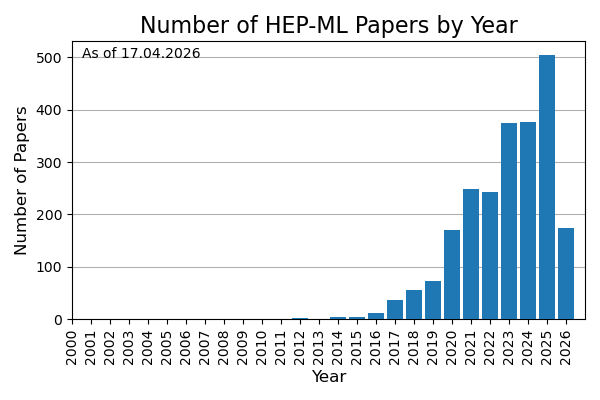
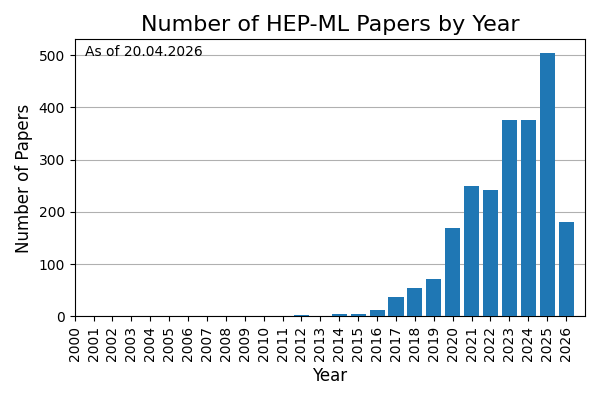
Weekly update CW 16

diff --git a/HEPML.tex b/HEPML.tex
@@ -95,7 +95,7 @@ This review was built with the help of the HEP-ML community, the INSPIRE REST AP
 			\\\textit{Neutrino detectors are very large in order to have a sizable rate of neutrino detection.  The entire neutrino interaction can be characterized to distinguish different neutrino flavors.}
 			\item \textbf{Direct Dark Matter Detectors}~\cite{Amaro:2025ssv,Cerdeno:2024uqt,Ghrear:2024rku,XENONCollaboration:2023dar,Biassoni:2023lih,Li:2022tvg,Liang:2021nsz,Herrero-Garcia:2021goa,Coarasa:2021fpv,McDonald:2021hus,Golovatiuk:2021lqn,Khosa:2019qgp,Akerib:2020aws,Ilyasov_2020}
 			\\\textit{Dark matter detectors are similar to neutrino detectors, but aim to achieve `zero' background.}
-			\item \textbf{Cosmology, Astro Particle, and Cosmic Ray physics}~\cite{Santelj:2026dma,Lai:2026hhg,Mikuni:2025ocp,Romano:2025bxp,TelescopeArray:2025lcs,Li:2025djo,Choudhury:2025hqg,PierreAuger:2025cic,Hallin:2025wyc,Macias:2025crt,IceCube:2025swy,Heneka:2025fpe,Erdmann:2025xpm,Takahashi:2024bxx,Heisig:2024jkk,Ahn:2024lkh,Hatefi:2024asc,Yoon:2024pbz,Riehn:2024prp,Kalaczynski:2024wxa,Thakur:2024mxs,Guo:2023mhf,Hatefi:2023gpj,Krastev:2023fnh,Cai:2023gol,Carvalho:2023ele,Zhou:2023cfs,Kim:2023wuk,Goriely:2022upe,Nguyen:2022ldb,Zhang:2022djp,Abel:2022nje,Sun:2022djj,Glauch:2022xth,Montel:2022fhv,De:2022sde,Chen:2019avc,Bister:2021arb,Mishra-Sharma:2021oxe,Mishra-Sharma:2021nhh,Sabiu:2021aea,Kahlhoefer:2021sha,List:2021aer,Vago:2021grx,Aizpuru:2021vhd,Ikeda:2021sxm,Shih:2021kbt,1853992,Arjona:2021hmg,Han:2021kjx,Droz:2021wnh,huang2021convolutionalneuralnetwork,Conceicao:2021xgn,gonzalez2021tackling,Balazs:2021uhg,Aab:2021rcn,Verma:2020gnq,Tsai:2020vcx,Brehmer:2019jyt,Ostdiek:2020cqz}
+			\item \textbf{Cosmology, Astro Particle, and Cosmic Ray physics}~\cite{Ahmed:2026agd,Santelj:2026dma,Lai:2026hhg,Mikuni:2025ocp,Romano:2025bxp,TelescopeArray:2025lcs,Li:2025djo,Choudhury:2025hqg,PierreAuger:2025cic,Hallin:2025wyc,Macias:2025crt,IceCube:2025swy,Heneka:2025fpe,Erdmann:2025xpm,Takahashi:2024bxx,Heisig:2024jkk,Ahn:2024lkh,Hatefi:2024asc,Yoon:2024pbz,Riehn:2024prp,Kalaczynski:2024wxa,Thakur:2024mxs,Guo:2023mhf,Hatefi:2023gpj,Krastev:2023fnh,Cai:2023gol,Carvalho:2023ele,Zhou:2023cfs,Kim:2023wuk,Goriely:2022upe,Nguyen:2022ldb,Zhang:2022djp,Abel:2022nje,Sun:2022djj,Glauch:2022xth,Montel:2022fhv,De:2022sde,Chen:2019avc,Bister:2021arb,Mishra-Sharma:2021oxe,Mishra-Sharma:2021nhh,Sabiu:2021aea,Kahlhoefer:2021sha,List:2021aer,Vago:2021grx,Aizpuru:2021vhd,Ikeda:2021sxm,Shih:2021kbt,1853992,Arjona:2021hmg,Han:2021kjx,Droz:2021wnh,huang2021convolutionalneuralnetwork,Conceicao:2021xgn,gonzalez2021tackling,Balazs:2021uhg,Aab:2021rcn,Verma:2020gnq,Tsai:2020vcx,Brehmer:2019jyt,Ostdiek:2020cqz}
 			\\\textit{Machine learning is often used in astrophysics and cosmology in different ways than terrestrial particle physics experiments due to a general divide between Bayesian and Frequentist statistics.  However, there are many similar tasks and a growing number of proposals designed for one domain that apply to the other.  See also https://github.com/georgestein/ml-in-cosmology.}
 			\item \textbf{Tracking}~\cite{Coccaro:2026jod,Renusch:2026tko,Argenton:2026zxr,Das:2026mff,Liyan:2026pbd,Reuter:2026pdv,CMS:2026znb,Dispoto:2025zyz,Coccaro:2025rfu,Govil:2025nvy,Parpillon:2025tlm,Blankestijn:2025hvg,Caron:2025yaa,Condren:2025czc,Miller:2025svo,Coradin:2025ees,VanStroud:2024fau,Caron:2024cyo,Guiang:2024qzk,Gavalian:2024icb,Huang:2024voo,Allaire:2023llb,Allaire:2023dfg,Mieskolainen:2023hkz,Akar:2023zhd,Knipfer:2023zrv,Bae:2023eec,Abidi:2022ogh,Sun:2022bxx,Akram:2022zmj,Bakina:2022mhs,Alonso-Monsalve:2022zlm,Wang:2022oer,Goncharov:2021wvd,Huth:2021zcm,Lavrik:2021zgt,Edmonds:2021lzd,Dezoort:2021kfk,Ju:2021ayy,Thais:2021qcb,Akar:2021gns,Biscarat:2021dlj,goto2021development,Amrouche:2021tlm,Fox:2020hfm,Siviero:2020tim,Choma:2020cry,Shlomi:2020ufi,Akar:2020jti,Ju:2020xty,Amrouche:2019wmx,Farrell:2018cjr,Farrell:DLPS2017}
 			\\\textit{Charged particle tracking is a challenging pattern recognition task.  This category is for various classification tasks associated with tracking, such as seed selection.}
@@ -148,9 +148,9 @@ This review was built with the help of the HEP-ML community, the INSPIRE REST AP
 		\\\textit{Regression methods can be used as surrogate models for functions that are too slow to evaluate.  One important class of functions are matrix elements, which form the core component of cross section calculations in quantum field theory.}
 		\item \textbf{Parameter estimation}~\cite{deNoyers:2025ije,Guo:2025zpk,Mir:2025wxg,Borsato:2025nng,Thakur:2025oyn,Tong:2025jnd,PierreAuger:2025cic,Dimitrova:2025mbl,Miller:2025svo,Abasov:2025ntj,Hammad:2025ewr,Vasilev:2025dff,Biro:2024tzv,Simkina:2023ztj,Dubey:2023pro,Yang:2023rbg,Schroder:2023akt,Goos:2023opq,Shi:2023xfz,AlHammal:2023svo,Qiu:2023ihi,Garg:2022tal,Meng:2022lmd,Castro:2022zpq,Craven:2021ems,Alda:2021rgt,Kim:2021pcz,Lazzarin:2020uvv,1808105,Lei:2020ucb}
 		\\\textit{The target features could be parameters of a model, which can be learned directly through a regression setup.  Other forms of inference are described in later sections (which could also be viewed as regression).}
-		\item \textbf{Parton Distribution Functions (and related)}~\cite{Alharazin:2026wfh,Khanpour:2026erj,Cruz-Martinez:2026rct,Dai:2026tjl,Chiefa:2025cap,Watkins:2025apc,Fernando:2025xzv,Chu:2025jsi,Mahaut:2025hie,Kriesten:2025gti,Costantini:2025wxp,Singireddy:2025biy,Barontini:2025lnl,Soleymaninia:2025cvi,Cruz-Martinez:2025ahf,Bacchetta:2025ara,Chowdhury:2024ymm,Kriesten:2024are,Liuti:2024umy,Yan:2024yir,Barontini:2024dyb,Ochoa-Oregon:2024zgm,Soleymaninia:2024jam,Bertone:2024taw,Costantini:2024xae,Gombas:2024rvw,DallOlio:2024vjv,NNPDF:2024dpb,NNPDF:2024djq,Kriesten:2023uoi,Rabemananjara:2023xfq,Fernando:2023obn,Wang:2023poi,Kassabov:2023hbm,Wang:2023nab,Candido:2023utz,Gao:2022srd,Gao:2022uhg,Iranipour:2022iak,Khalek:2021gon,Ball:2021xlu,Ball:2021leu,Carrazza:2021hny,Rossi:2020sbh,Grigsby:2020auv,DelDebbio:2020rgv}
+		\item \textbf{Parton Distribution Functions (and related)}~\cite{Barrue:2026qul,Kang:2026mod,Alharazin:2026wfh,Khanpour:2026erj,Cruz-Martinez:2026rct,Dai:2026tjl,Chiefa:2025cap,Watkins:2025apc,Fernando:2025xzv,Chu:2025jsi,Mahaut:2025hie,Kriesten:2025gti,Costantini:2025wxp,Singireddy:2025biy,Barontini:2025lnl,Soleymaninia:2025cvi,Cruz-Martinez:2025ahf,Bacchetta:2025ara,Chowdhury:2024ymm,Kriesten:2024are,Liuti:2024umy,Yan:2024yir,Barontini:2024dyb,Ochoa-Oregon:2024zgm,Soleymaninia:2024jam,Bertone:2024taw,Costantini:2024xae,Gombas:2024rvw,DallOlio:2024vjv,NNPDF:2024dpb,NNPDF:2024djq,Kriesten:2023uoi,Rabemananjara:2023xfq,Fernando:2023obn,Wang:2023poi,Kassabov:2023hbm,Wang:2023nab,Candido:2023utz,Gao:2022srd,Gao:2022uhg,Iranipour:2022iak,Khalek:2021gon,Ball:2021xlu,Ball:2021leu,Carrazza:2021hny,Rossi:2020sbh,Grigsby:2020auv,DelDebbio:2020rgv}
 		\\\textit{Various machine learning models can provide flexible function approximators, which can be useful for modeling functions that cannot be determined easily from first principles such as parton distribution functions.}
-		\item \textbf{Lattice Gauge Theory}~\cite{Singha:2026slc,Mayer-Steudte:2026vaf,Singh:2026zls,Albergo:2026fwx,Hsiao:2026fdd,Pfahler:2026fpj,Alharazin:2026lcb,Bellscheidt:2026rjh,Bonanno:2026tle,Kanwar:2025wuc,Bulgarelli:2025ewp,Shen:2025zkj,Vega:2025hgz,Bonanno:2025pdp,Li:2025jkm,Chu:2025jsi,Spriggs:2025sea,Sun:2025evk,Kriesten:2025gti,Cheng:2025khv,Holland:2025fsa,Favoni:2025ghc,Blum:2025woh,Zhu:2025pmw,Lawrence:2025rnk,Holland:2025dxf,Chen:2025kfo,Nagai:2025rok,Aarts:2025gyp,Vega:2024ngr,Caselle:2024uen,Aarts:2024agm,Habibi:2024fbn,Choi:2024ryu,Kou:2024hzd,Zhu:2024kiu,Gerdes:2024rjk,Wang:2024ykk,Rovira:2024aqd,Gao:2024zdz,Luo:2024iwf,Gao:2024nzg,Bachtis:2024dss,Jiang:2024vsr,Cai:2024eqa,Bachtis:2024vks,Apte:2024vwn,Xu:2024tjp,Chen:2024mmd,Bai:2024pii,Abbott:2024knk,Finkenrath:2024tdp,Kim:2024rpd,Lin:2024eiz,Bonanno:2024udh,Chu:2024swv,Boyle:2024nlh,Chen:2024ckb,Catumba:2024wxc,Holland:2024muu,Goswami:2024jlc,Kanwar:2024ujc,Lawrence:2023cft,Foreman:2023ymy,Gao:2023quv,Holland:2023lfx,Soloveva:2023tvj,Gao:2023uel,Wang:2023sry,Tomiya:2023jdy,Alvestad:2023jgl,Albandea:2023ais,Ermann:2023unw,Kashiwa:2023dfx,Detmold:2023kjm,Caselle:2023mvh,Buzzicotti:2023qdv,Riberdy:2023awf,Singha:2023xxq,Lehner:2023prf,NarcisoFerreira:2023kak,Bender:2023gwr,R:2023dcr,Hudspith:2023loy,Zhou:2023pti,Aronsson:2023rli,Nicoli:2023qsl,Albandea:2023wgd,Lehner:2023bba,Peng:2022wdl,Lawrence:2022dba,Aguilar:2022thg,Gao:2022uhg,Bacchio:2022vje,Bacchio:2022vje,Chen:2022asj,Favoni:2022mcg,Karsch:2022yka,Kim:2022rna,Sale:2022snt,Khan:2022vot,Albandea:2022fky,Kang:2022jbg,Li:2022ozl,Chen:2022ytr,Luo:2022jzl,Shi:2022yqw,Bulusu:2021njs,Chen:2021jey,Favoni:2021epq,Nguyen:2019gpo,Zhang:2019qiq,Yoon:2018krb,Hackett:2021idh,Shi:2021qri,Bulusu:2021rqz,Favoni:2020reg,Kanwar:2003.06413}
+		\item \textbf{Lattice Gauge Theory}~\cite{Wenger:2026sjp,Singha:2026slc,Mayer-Steudte:2026vaf,Singh:2026zls,Albergo:2026fwx,Hsiao:2026fdd,Pfahler:2026fpj,Alharazin:2026lcb,Bellscheidt:2026rjh,Bonanno:2026tle,Kanwar:2025wuc,Bulgarelli:2025ewp,Shen:2025zkj,Vega:2025hgz,Bonanno:2025pdp,Li:2025jkm,Chu:2025jsi,Spriggs:2025sea,Sun:2025evk,Kriesten:2025gti,Cheng:2025khv,Holland:2025fsa,Favoni:2025ghc,Blum:2025woh,Zhu:2025pmw,Lawrence:2025rnk,Holland:2025dxf,Chen:2025kfo,Nagai:2025rok,Aarts:2025gyp,Vega:2024ngr,Caselle:2024uen,Aarts:2024agm,Habibi:2024fbn,Choi:2024ryu,Kou:2024hzd,Zhu:2024kiu,Gerdes:2024rjk,Wang:2024ykk,Rovira:2024aqd,Gao:2024zdz,Luo:2024iwf,Gao:2024nzg,Bachtis:2024dss,Jiang:2024vsr,Cai:2024eqa,Bachtis:2024vks,Apte:2024vwn,Xu:2024tjp,Chen:2024mmd,Bai:2024pii,Abbott:2024knk,Finkenrath:2024tdp,Kim:2024rpd,Lin:2024eiz,Bonanno:2024udh,Chu:2024swv,Boyle:2024nlh,Chen:2024ckb,Catumba:2024wxc,Holland:2024muu,Goswami:2024jlc,Kanwar:2024ujc,Lawrence:2023cft,Foreman:2023ymy,Gao:2023quv,Holland:2023lfx,Soloveva:2023tvj,Gao:2023uel,Wang:2023sry,Tomiya:2023jdy,Alvestad:2023jgl,Albandea:2023ais,Ermann:2023unw,Kashiwa:2023dfx,Detmold:2023kjm,Caselle:2023mvh,Buzzicotti:2023qdv,Riberdy:2023awf,Singha:2023xxq,Lehner:2023prf,NarcisoFerreira:2023kak,Bender:2023gwr,R:2023dcr,Hudspith:2023loy,Zhou:2023pti,Aronsson:2023rli,Nicoli:2023qsl,Albandea:2023wgd,Lehner:2023bba,Peng:2022wdl,Lawrence:2022dba,Aguilar:2022thg,Gao:2022uhg,Bacchio:2022vje,Bacchio:2022vje,Chen:2022asj,Favoni:2022mcg,Karsch:2022yka,Kim:2022rna,Sale:2022snt,Khan:2022vot,Albandea:2022fky,Kang:2022jbg,Li:2022ozl,Chen:2022ytr,Luo:2022jzl,Shi:2022yqw,Bulusu:2021njs,Chen:2021jey,Favoni:2021epq,Nguyen:2019gpo,Zhang:2019qiq,Yoon:2018krb,Hackett:2021idh,Shi:2021qri,Bulusu:2021rqz,Favoni:2020reg,Kanwar:2003.06413}
 		\\\textit{Lattice methods offer a complementary approach to perturbation theory.  A key challenge is to create approaches that respect the local gauge symmetry (equivariant networks).}
 		\item \textbf{Function Approximation}~\cite{Jones:2026tkf,Ghalenovi:2024scv,Wolf:2024zkz,Rovira:2024aqd,Hirst:2024abn,Reyes-Gonzalez:2023oei,Fernando:2023obn,Wang:2023nab,Lei:2022dvn,Kitouni:2021fkh,Wang:2021jou,Chahrour:2021eiv,Haddadin:2021mmo,Coccaro:2019lgs,1853982}
 		\\\textit{Approximating functions that obey certain (physical) constraints.}
@@ -193,14 +193,14 @@ This review was built with the help of the HEP-ML community, the INSPIRE REST AP
 	\end{itemize}
 \item \textbf{Anomaly detection}~\cite{Gurkanli:2026dvl,Li:2026azw,Addepalli:2026hwb,Mikuni:2026ced,Breso-Pla:2026tlz,Patel:2026npj,Julson:2026lhf,Amaro:2026vga,Amaro:2025jic,CMS:2025sch,Hein:2025ysv,Cepaitis:2024yuy,Bhargava:2025xig,Islam:2025eas,DAgnolo:2025qqr,Hein:2025uhj,Liu:2025kfw,Gerlach:2025brx,CMS:2025lmn,DAvanzo:2025tkf,Arguin:2025lyr,Hallin:2025wyc,Boggia:2025fjj,Ragoni:2025mju,ATLAS:2025cdi,Cheng:2025qhg,Vaselli:2025zkl,ClarkeHall:2025oiz,Dillon:2025yqe,Araz:2025oax,Puljak:2025gtj,Cheng:2025ewj,deSouza:2025riy,ATLAS:2025kuz,Hou:2025prp,Brennan:2025fqy,Chekanov:2025xpk,Banda:2025nrv,Chen:2025mxf,Klein:2025lbj,Chowdhury:2025mul,Oleksiyuk:2025pmu,Metzger:2025ecl,Gambhir:2025afb,ATLAS:2025obc,Brinkerhoff:2025rob,Khot:2025kqg,Arguin:2025ewq,CMS:2024nsz,Hammad:2024dsn,Das:2024fwo,DARWIN:2024unx,Duarte:2024lsg,Zhang:2024ebl,Chekanov:2024ezm,Matos:2024ggs,Caron:2024zxk,Harilal:2024tqq,Leigh:2024chm,Grosso:2024nho,Li:2024htp,Cheng:2024yig,Oleksiyuk:2024hru,Krause:2023uww,Sengupta:2023vtm,Zipper:2023ybp,Metodiev:2023izu,Liu:2023djx,Zhang:2023khv,Bai:2023yyy,Grosso:2023owo,Freytsis:2023cjr,Buhmann:2023acn,Finke:2023ltw,Bickendorf:2023nej,CMSECAL:2023fvz,Chekanov:2023uot,ATLAS:2023azi,Vaslin:2023lig,Golling:2023yjq,Mikuni:2023tok,Sengupta:2023xqy,Golling:2023juz,Roche:2023int,Schuhmacher:2023pro,Mastandrea:2022vas,Araz:2022zxk,Kasieczka:2022naq,Hallin:2022eoq,Kamenik:2022qxs,Park:2022zov,Caron:2022wrw,Dillon:2022mkq,Verheyen:2022tov,Finke:2022lsu,Fanelli:2022xwl,Letizia:2022xbe,Raine:2022hht,Birman:2022xzu,Dillon:2022tmm,Jiang:2022sfw,Alvi:2022fkk,Buss:2022lxw,Aguilar-Saavedra:2022ejy,Bradshaw:2022qev,Ngairangbam:2021yma,Canelli:2021aps,dAgnolo:2021aun,Chekanov:2021pus,Mikuni:2021nwn,Lester:2021aks,Tombs:2021wae,Aguilar-Saavedra:2021utu,Herrero-Garcia:2021goa,Jawahar:2021vyu,Fraser:2021lxm,Ostdiek:2021bem,Hallin:2021wme,Govorkova:2021utb,Volkovich:2021txe,Kasieczka:2021tew,Govorkova:2021hqu,Caron:2021wmq,Dorigo:2021iyy,Aarrestad:2021oeb,Kahn:2021drv,Atkinson:2021nlt,Shih:2021kbt,Finke:2021sdf,Dillon:2021nxw,Collins:2021nxn,Bortolato:2021zic,Blance:2021gcs,Batson:2021agz,Chakravarti:2021svb,Kasieczka:2021xcg,Stein:2020rou,Faroughy:2020gas,Park:2020pak,vanBeekveld:2020txa,Mikuni:2020qds,pol2020anomaly,1815227,aguilarsaavedra2020mass,Alexander:2020mbx,Thaprasop:2020mzp,Khosa:2020qrz,Cheng:2020dal,Amram:2020ykb,1800445,1797846,collaboration2020dijet,knapp2020adversarially,Romao:2020ojy,Romao:2019dvs,Aguilar-Saavedra:2017rzt,Nachman:2020lpy,Andreassen:2020nkr,Dillon:2019cqt,1809.02977,Mullin:2019mmh,DeSimone:2018efk,Hajer:2018kqm,Blance:2019ibf,Cerri:2018anq,Roy:2019jae,Heimel:2018mkt,Farina:2018fyg,DAgnolo:2019vbw,Collins:2019jip,Collins:2018epr,DAgnolo:2018cun}
 \\\textit{The goal of anomaly detection is to identify abnormal events.  The abnormal events could be from physics beyond the Standard Model or from faults in a detector.  While nearly all searches for new physics are technically anomaly detection, this category is for methods that are mode-independent (broadly defined).  Anomalies in high energy physics tend to manifest as over-densities in phase space (often called `population anomalies') in contrast to off-manifold anomalies where you can flag individual examples as anomalous. }
-\item \textbf{Foundation Models, LLMs, Agents}~\cite{Alonso-Monsalve:2026okj,Shih:2026jfe,Jat:2026yxv,Cardona-Giraldo:2026rnn,Menzo:2026qrl,Mikuni:2026ced,Agrawal:2026lvg,Tan:2026ier,Moreno:2026mqk,Qiu:2026iby,Shih:2026lmy,Mallampalli:2026hrl,Breso-Pla:2026tlz,Li:2026krn,Badea:2026klb,Atif:2026eju,Knipfer:2026kng,Hill:2026naa,Esmail:2026jpb,Plehn:2026gxv,Hsu:2026sww,Elsharkawy:2026kwp,Zoccheddu:2026cjr,Rafique:2025xeo,Mikuni:2025ocp,DasBakshi:2025dcg,Menzo:2025cim,Gendreau-Distler:2025fsj,Birk:2025fbs,Sulc:2025odu,Young:2025qbx,Mermer:2025mcf,Abasov:2025dak,Bhimji:2025isp,Song:2025odk,Morales-Alvarado:2025isx,Bakshi:2025fgx,Visive:2025flm,Hallin:2025ywf,Diefenbacher:2025zzn,Sagar:2025mrd,Li:2025vvr,McGreivy:2025rrz,Sagar:2025ebh,Park:2025ebs,Barman:2025kqr,Algren:2025zff,Saqlain:2025owc,Heneka:2025fpe,Giroux:2025elr,Tani:2025osu,Mikuni:2025tar,Barman:2025wfb,Amram:2024fjg,Ho:2024qyf,OmanaKuttan:2024mwr,Wildridge:2024yeg,Leigh:2024ked,Mikuni:2024qsr,Zhang:2024kws,Fanelli:2024ktq,Harris:2024sra,Birk:2024knn,Vigl:2024lat}
+\item \textbf{Foundation Models, LLMs, Agents}~\cite{Krzmanc:2026fdw,Alonso-Monsalve:2026okj,Shih:2026jfe,Jat:2026yxv,Cardona-Giraldo:2026rnn,Menzo:2026qrl,Mikuni:2026ced,Agrawal:2026lvg,Tan:2026ier,Moreno:2026mqk,Qiu:2026iby,Shih:2026lmy,Mallampalli:2026hrl,Breso-Pla:2026tlz,Li:2026krn,Badea:2026klb,Atif:2026eju,Knipfer:2026kng,Hill:2026naa,Esmail:2026jpb,Plehn:2026gxv,Hsu:2026sww,Elsharkawy:2026kwp,Zoccheddu:2026cjr,Rafique:2025xeo,Mikuni:2025ocp,DasBakshi:2025dcg,Menzo:2025cim,Gendreau-Distler:2025fsj,Birk:2025fbs,Sulc:2025odu,Young:2025qbx,Mermer:2025mcf,Abasov:2025dak,Bhimji:2025isp,Song:2025odk,Morales-Alvarado:2025isx,Bakshi:2025fgx,Visive:2025flm,Hallin:2025ywf,Diefenbacher:2025zzn,Sagar:2025mrd,Li:2025vvr,McGreivy:2025rrz,Sagar:2025ebh,Park:2025ebs,Barman:2025kqr,Algren:2025zff,Saqlain:2025owc,Heneka:2025fpe,Giroux:2025elr,Tani:2025osu,Mikuni:2025tar,Barman:2025wfb,Amram:2024fjg,Ho:2024qyf,OmanaKuttan:2024mwr,Wildridge:2024yeg,Leigh:2024ked,Mikuni:2024qsr,Zhang:2024kws,Fanelli:2024ktq,Harris:2024sra,Birk:2024knn,Vigl:2024lat}
   \\\textit{A foundation model is a machine learning or deep learning model that is trained on broad data such that it can be applied across a wide range of use cases.}
 \item \textbf{Kolmogorov-Arnold Networks (KANs)}~\cite{He:2026tev,Hoang:2025sdb,Jeong:2025omu,Dai:2025dir,Kou:2024hzd,Abasov:2024hyq,Erdmann:2024unt}
   \\\textit{Kolmogorov-Arnold Networks (KANs) are alternatives to standard multi-layer perceptrons in which instead of fixed activation functions on nodes (``neurons'') have learnable activation functions on edges (``weights''). This makes them more expressible and interpretable compared to multi-layer perceptrons.}
 \item \textbf{Simulation-based (`likelihood-free') Inference}
 \\\textit{Likelihood-based inference is the case where $p(x|\theta)$ is known and $\theta$ can be determined by maximizing the probability of the data.  In high energy physics, $p(x|\theta)$ is often not known analytically, but it is often possible to sample from the density implicitly using simulations.}
 	\begin{itemize}
-		\item \textbf{Parameter estimation}~\cite{Pagayon:2026byc,Woodward:2026jnx,Tame-Narvaez:2026zmc,Valsecchi:2026kpp,Villarreal:2025gux,Gavranovic:2025wcj,Heyer:2025cpw,Tame-Narvaez:2025pwg,Bahl:2025mib,Silva:2025hzo,Macias:2025crt,Hammad:2025wst,Bhattacharya:2025ave,Gavrikov:2025rps,Sadasivan:2025kjj,Villarreal:2025ged,Ghosh:2025fma,Amram:2025vqw,Shyamsundar:2025eht,Elsharkawy:2025six,Benato:2025rgo,Hammad:2025ewr,Hirono:2025aqc,Zhang:2025mmm,Nishimura:2025knz,Acosta:2025lsu,Sluijter:2025isc,Araz:2025ezp,DeLuca:2025ruv,Villarreal:2025mhv,Aarts:2025gyp,Alda:2024sup,ATLAS:2024ynn,Heimel:2024drk,Maitre:2024hzp,Bahl:2024meb,JETSCAPE:2024cqe,Mastandrea:2024irf,Diaz:2024yfu,Alvarez:2024owq,Chatterjee:2024pbp,Chai:2024zyl,Heimel:2023mvw,Espejo:2023wzf,Barrue:2023ysk,Morandini:2023pwj,Erdogan:2023uws,Breitenmoser:2023tmi,Heinrich:2023bmt,Rizvi:2023mws,Neubauer:2022gbu,Butter:2022vkj,Arganda:2022zbs,Kong:2022rnd,Arganda:2022qzy,Bahl:2021dnc,Barman:2021yfh,Mishra-Sharma:2021oxe,NEURIPS2020_a878dbeb,Chatterjee:2021nms,Nachman:2021yvi,Bieringer:2020tnw,Flesher:2020kuy,Coogan:2020yux,Andreassen:2020gtw,Cranmer:2015bka,Brehmer:2018hga,Brehmer:2019xox,Brehmer:2018eca,Brehmer:2018kdj,Hollingsworth:2020kjg,Stoye:2018ovl,Andreassen:2019nnm}
+		\item \textbf{Parameter estimation}~\cite{Barrue:2026qul,Pagayon:2026byc,Woodward:2026jnx,Tame-Narvaez:2026zmc,Valsecchi:2026kpp,Villarreal:2025gux,Gavranovic:2025wcj,Heyer:2025cpw,Tame-Narvaez:2025pwg,Bahl:2025mib,Silva:2025hzo,Macias:2025crt,Hammad:2025wst,Bhattacharya:2025ave,Gavrikov:2025rps,Sadasivan:2025kjj,Villarreal:2025ged,Ghosh:2025fma,Amram:2025vqw,Shyamsundar:2025eht,Elsharkawy:2025six,Benato:2025rgo,Hammad:2025ewr,Hirono:2025aqc,Zhang:2025mmm,Nishimura:2025knz,Acosta:2025lsu,Sluijter:2025isc,Araz:2025ezp,DeLuca:2025ruv,Villarreal:2025mhv,Aarts:2025gyp,Alda:2024sup,ATLAS:2024ynn,Heimel:2024drk,Maitre:2024hzp,Bahl:2024meb,JETSCAPE:2024cqe,Mastandrea:2024irf,Diaz:2024yfu,Alvarez:2024owq,Chatterjee:2024pbp,Chai:2024zyl,Heimel:2023mvw,Espejo:2023wzf,Barrue:2023ysk,Morandini:2023pwj,Erdogan:2023uws,Breitenmoser:2023tmi,Heinrich:2023bmt,Rizvi:2023mws,Neubauer:2022gbu,Butter:2022vkj,Arganda:2022zbs,Kong:2022rnd,Arganda:2022qzy,Bahl:2021dnc,Barman:2021yfh,Mishra-Sharma:2021oxe,NEURIPS2020_a878dbeb,Chatterjee:2021nms,Nachman:2021yvi,Bieringer:2020tnw,Flesher:2020kuy,Coogan:2020yux,Andreassen:2020gtw,Cranmer:2015bka,Brehmer:2018hga,Brehmer:2019xox,Brehmer:2018eca,Brehmer:2018kdj,Hollingsworth:2020kjg,Stoye:2018ovl,Andreassen:2019nnm}
 		\\\textit{This can also be viewed as a regression problem, but there the goal is typically to do maximum likelihood estimation in contrast to directly minimizing the mean squared error between a function and the target.}
 		\item \textbf{Unfolding}~\cite{Xia:2026ygd,Craig:2026caw,Breso-Pla:2026tlz,Ore:2026qgp,Mohr:2026etm,Zhu:2025uyn,Petitjean:2025tgk,Acosta:2025shf,Butter:2025mek,Barman:2025bpx,Butter:2025via,Badea:2025wzd,Canelli:2025ybb,Falcao:2025jom,Guo:2025wry,Desai:2025mpy,Huang:2025ziq,Acosta:2025lsu,Milton:2025mug,H1:2024mox,Butter:2024vbx,Duarte:2024lsg,Zhu:2024drd,Desai:2024kpd,Huetsch:2024quz,Shmakov:2024gkd,Shmakov:2023kjj,Chan:2023tbf,Backes:2022vmn,Arratia:2022wny,Wong:2021zvv,Arratia:2021otl,H1:2021wkz,Komiske:2021vym,Andreassen:2021zzk,Baron:2021vvl,Howard:2021pos,Vandegar:2020yvw,1800956,Zech2003BinningFreeUB,Lindemann:1995ut,Martschei:2012pr,Glazov:2017vni,Gagunashvili:2010zw,Bellagente:2019uyp,Datta:2018mwd,Andreassen:2019cjw,Mieskolainen:2018fhf}
 		\\\textit{This is the task of removing detector distortions.  In contrast to parameter estimation, the goal is not to infer model parameters, but instead, the undistorted phase space probability density.  This is often also called deconvolution.}
@@ -233,7 +233,7 @@ This review was built with the help of the HEP-ML community, the INSPIRE REST AP
 \\\textit{This section is incomplete as there are many results that directly and indirectly (e.g. via flavor tagging) use modern machine learning techniques.  We will try to highlight experimental results that use deep learning in a critical way for the final analysis sensitivity.}
 	\begin{itemize}
 		\item Performance studies~\cite{Wang:2025eur,Pandurovic:2025hmm,Douglas:2024tnl,Kara:2024xkk,Karwowska:2024xqy,Palo:2023xnr,ATLAS:2023zca,Gronroos:2023qff,Jiang:2022zho,NEOS-II:2022mov,Yang:2022dwu,CMS:2022prd}
-		\item Searches and measurements where ML reconstruction is a core component~\cite{ATLAS:2026hnb,Defranchis:2026wyw,CMS:2026shw,CMS:2026wpe,CMS:2026fsx,Subba:2025hxn,Cardini:2025zbp,CMS:2025tre,CMS:2025dsh,Mokhtar:2025ubb,SuperCDMS:2025ywe,IceCube:2025jmv,ATLAS:2025kuz,BESIII:2025biy,Corpe:2025sbw,ATLAS:2025obc,CMS:2024znt,H1:2024mox,ATLAS:2024mrr,BESIII:2024mgg,CMS:2024xzb,ATLAS:2024rua,CMS:2024ddc,CALICE:2024jke,MicroBooNE:2024zhz,ATLAS:2024xxl,CMS:2024zqs,Belle-II:2024vvr,ATLAS:2024itc,CMS:2024vjn,ATLAS:2024auw,CMS:2024fkb,ATLAS:2024fdw,ATLAS:2024ett,CMS:2024trg,ATLAS:2024rcx,Vourliotis:2024bem,BOREXINO:2023pcv,Akar:2023puf,Tung:2023lkv,Belfkir:2023vpo,Dutta:2023jbz,Gravili:2023hbp,NOvA:2023uxq,ATLAS:2023dnm,ATLAS:2023sbu,ATLAS:2023bzb,ATLAS:2023qdu,ATLAS:2023vxg,ATLAS:2023hbp,ATLAS:2023mcc,CMS:2022wjc,Manganelli:2022whv,Tran:2022ago,Li:2022gpb,CMS:2022fxs,CMS:2022idi,ATLAS:2022ihe,MicroBooNE:2021jwr,MicroBooNE:2021nxr,CMS:2019dqq,Keck:2018lcd}
+		\item Searches and measurements where ML reconstruction is a core component~\cite{Atta:2026pam,ATLAS:2026hnb,Defranchis:2026wyw,CMS:2026shw,CMS:2026wpe,CMS:2026fsx,Subba:2025hxn,Cardini:2025zbp,CMS:2025tre,CMS:2025dsh,Mokhtar:2025ubb,SuperCDMS:2025ywe,IceCube:2025jmv,ATLAS:2025kuz,BESIII:2025biy,Corpe:2025sbw,ATLAS:2025obc,CMS:2024znt,H1:2024mox,ATLAS:2024mrr,BESIII:2024mgg,CMS:2024xzb,ATLAS:2024rua,CMS:2024ddc,CALICE:2024jke,MicroBooNE:2024zhz,ATLAS:2024xxl,CMS:2024zqs,Belle-II:2024vvr,ATLAS:2024itc,CMS:2024vjn,ATLAS:2024auw,CMS:2024fkb,ATLAS:2024fdw,ATLAS:2024ett,CMS:2024trg,ATLAS:2024rcx,Vourliotis:2024bem,BOREXINO:2023pcv,Akar:2023puf,Tung:2023lkv,Belfkir:2023vpo,Dutta:2023jbz,Gravili:2023hbp,NOvA:2023uxq,ATLAS:2023dnm,ATLAS:2023sbu,ATLAS:2023bzb,ATLAS:2023qdu,ATLAS:2023vxg,ATLAS:2023hbp,ATLAS:2023mcc,CMS:2022wjc,Manganelli:2022whv,Tran:2022ago,Li:2022gpb,CMS:2022fxs,CMS:2022idi,ATLAS:2022ihe,MicroBooNE:2021jwr,MicroBooNE:2021nxr,CMS:2019dqq,Keck:2018lcd}
 		\item Final analysis discriminate for searches~\cite{CMS:2026uph,ATLAS:2026ovz,ATLAS:2026wyu,CMS:2026mkg,CMS:2026fqd,Davis:2026tpk,Kamiokande:2025hhe,Vami:2025fsl,CMS:2025lmn,ATLAS:2025eoa,CMS:2025fdx,Ali:2025gni,CMS:2025bxo,CMS:2025dpp,Sahoo:2025gig,Li:2025hbv,Manganelli:2022whv,Sirunyan:2020hwz,collaboration2020dijet,Aad:2020hzm,Aad:2019yxi}.
 		\item Measurements using deep learning directly (not through object reconstruction)~\cite{Baihaqi:2025kjd,Electron-PositronAlliance:2025hze,H1:2023fzk,H1:2021wkz}
 	\end{itemize}

diff --git a/check_inspire.py b/check_inspire.py
@@ -15,12 +15,12 @@ from datetime import date, datetime
 import requests
 
 starting_point = input("From which date do you want to start? \nFormat is YYYY-MM-DD!\n")
-starting_date = date.fromisoformat(starting_point)
+starting_date = date.fromisoformat("2026-04-13"
 
 categories = ['hep-ph', 'hep-ex', 'hep-lat', 'hep-th', 'physics.ins-det', 'physics.data-an']
 print(f"Looking at arXiv categories: {categories}")
 
-keywords = ['neural network', 'machine learning', 'generative model', 'diffusion model', 'normalizing flow', 'foundation model', 'ML']
+keywords = ['neural network', 'machine learning', 'generative model', 'diffusion model', 'normalizing flow', 'foundation model', 'ML', 'transformers']
 print(f"scanning papers with {keywords}:")
 keyword_str = f'("{keywords}")'.replace("', '", '"%20OR%20"').replace("['", '').replace("']", "")
 keyword_str = keyword_str.replace(" ", "%20")

diff --git a/README.md b/README.md
@@ -908,6 +908,7 @@ This review was built with the help of the HEP-ML community, the [INSPIRE REST A
 
 ####  Cosmology, Astro Particle, and Cosmic Ray physics
 
+* [Radiatively Corrected Hybrid Inflation: Parameter Scans and Machine Learning with ACT and Future CMB Experiments](https://arxiv.org/abs/2604.11068) (2026)
 * [Recent advances and trends in pattern recognition and data analysis for RICH detectors](https://arxiv.org/abs/2603.13000) [[DOI](https://doi.org/10.1016/j.nima.2026.171472)] (2026)
 * [Deep-Learning Denoising of Radio Observations for Ultra-High-Energy Cosmic-Ray Detection](https://arxiv.org/abs/2602.03818) (2026)
 * [OmniCosmos: Transferring Particle Physics Knowledge Across the Cosmos](https://arxiv.org/abs/2512.24422) (2025)
@@ -1699,6 +1700,8 @@ This review was built with the help of the HEP-ML community, the [INSPIRE REST A
 
 ###  Parton Distribution Functions (and related)
 
+* [Proton Structure from Neural Simulation-Based Inference at the LHC](https://arxiv.org/abs/2604.13157) (2026)
+* [AI-assisted modeling and Bayesian inference of unpolarized quark transverse momentum distributions from Drell-Yan data](https://arxiv.org/abs/2604.14133) (2026)
 * [Reconstruction of Gravitational Form Factors using Generative Machine Learning](https://arxiv.org/abs/2602.19267) (2026)
 * [Toward Precision Helicity PDFs from Global DIS and SIDIS Fits with Projected EIC Measurements](https://arxiv.org/abs/2602.17298) (2026)
 * [Assessing the Impact of Fitting Methodology at aN$^3$LO with FPPDF: an Open Source Tool for Extracting Parton Distribution Functions in the Hessian Approach](https://arxiv.org/abs/2602.07118) (2026)
@@ -1748,6 +1751,7 @@ This review was built with the help of the HEP-ML community, the [INSPIRE REST A
 
 ###  Lattice Gauge Theory
 
+* [Machine learning for four-dimensional SU(3) lattice gauge theories](https://arxiv.org/abs/2604.12416) (2026)
 * [Scalable Generative Sampling and Multilevel Estimation for Lattice Field Theories Near Criticality](https://arxiv.org/abs/2604.10209) (2026)
 * [Neural network interpolators for Wilson loops](https://arxiv.org/abs/2604.07226) (2026)
 * [Normalizing-flow-based density of states for (1+1)D U(1) lattice gauge theory with a $\theta$-term](https://arxiv.org/abs/2603.12501) (2026)
@@ -2663,6 +2667,7 @@ This review was built with the help of the HEP-ML community, the [INSPIRE REST A
 
 ##  Foundation Models, LLMs, Agents.
 
+* [Cross-Domain Transfer with Particle Physics Foundation Models: From Jets to Neutrino Interactions](https://arxiv.org/abs/2604.12364) (2026)
 * [Towards foundation-style models for energy-frontier heterogeneous neutrino detectors via self-supervised pre-training](https://arxiv.org/abs/2604.07037) (2026)
 * [Learning to Unscramble Feynman Loop Integrals with SAILIR](https://arxiv.org/abs/2604.05034) (2026)
 * [Retrieval-Augmented Question Answering over Scientific Literature for the Electron-Ion Collider](https://arxiv.org/abs/2604.02259) (2026)
@@ -2741,6 +2746,7 @@ This review was built with the help of the HEP-ML community, the [INSPIRE REST A
 ##  Simulation-based (`likelihood-free') Inference
 ###  Parameter estimation
 
+* [Proton Structure from Neural Simulation-Based Inference at the LHC](https://arxiv.org/abs/2604.13157) (2026)
 * [Deep learning topological inference-guided $T_{cc}^{+}$ pole parameter extraction](https://arxiv.org/abs/2603.17763) (2026)
 * [A Simulation-Based Inference Evaluation of Tension Between MicroBooNE and MiniBooNE Results in a 3+1 Sterile Neutrino Global Fit](https://arxiv.org/abs/2603.15322) (2026)
 * [First Estimation of Model Parameters for Neutrino-Induced Nucleon Knockout Using Simulation-Based Inference](https://arxiv.org/abs/2603.09778) (2026)
@@ -3209,6 +3215,7 @@ This review was built with the help of the HEP-ML community, the [INSPIRE REST A
 
 ###  Searches and measurements where ML reconstruction is a core component
 
+* [Enhancing Event Reconstruction in Hyper-Kamiokande with Machine Learning: A ResNet Implementation](https://arxiv.org/abs/2604.13503) (2026)
 * [Search for long-lived charginos and $τ$-sleptons using final states with a disappearing track in $pp$ collisions at $\sqrt{s}](https://arxiv.org/abs/2603.08315) (2026)
 * [Modern jet flavour tagging in hadronic Z decays with archived ALEPH data](https://arxiv.org/abs/2603.06524) (2026)
 * [Search for heavy scalar resonances decaying to Lorentz-boosted Higgs and Higgs-like bosons in the $\mathrm{b\bar{b}}$4q final state at $\sqrt{s}$](https://arxiv.org/abs/2602.00273) (2026)

diff --git a/docs/index.md b/docs/index.md
@@ -965,6 +965,7 @@ const expandElements = shouldExpand => {
 
     ####  Cosmology, Astro Particle, and Cosmic Ray physics
 
+    * [Radiatively Corrected Hybrid Inflation: Parameter Scans and Machine Learning with ACT and Future CMB Experiments](https://arxiv.org/abs/2604.11068) (2026)
     * [Recent advances and trends in pattern recognition and data analysis for RICH detectors](https://arxiv.org/abs/2603.13000) [[DOI](https://doi.org/10.1016/j.nima.2026.171472)] (2026)
     * [Deep-Learning Denoising of Radio Observations for Ultra-High-Energy Cosmic-Ray Detection](https://arxiv.org/abs/2602.03818) (2026)
     * [OmniCosmos: Transferring Particle Physics Knowledge Across the Cosmos](https://arxiv.org/abs/2512.24422) (2025)
@@ -1796,6 +1797,8 @@ const expandElements = shouldExpand => {
     ###  Parton Distribution Functions (and related)
     </div>
 
+    * [Proton Structure from Neural Simulation-Based Inference at the LHC](https://arxiv.org/abs/2604.13157) (2026)
+    * [AI-assisted modeling and Bayesian inference of unpolarized quark transverse momentum distributions from Drell-Yan data](https://arxiv.org/abs/2604.14133) (2026)
     * [Reconstruction of Gravitational Form Factors using Generative Machine Learning](https://arxiv.org/abs/2602.19267) (2026)
     * [Toward Precision Helicity PDFs from Global DIS and SIDIS Fits with Projected EIC Measurements](https://arxiv.org/abs/2602.17298) (2026)
     * [Assessing the Impact of Fitting Methodology at aN$^3$LO with FPPDF: an Open Source Tool for Extracting Parton Distribution Functions in the Hessian Approach](https://arxiv.org/abs/2602.07118) (2026)
@@ -1850,6 +1853,7 @@ const expandElements = shouldExpand => {
     ###  Lattice Gauge Theory
     </div>
 
+    * [Machine learning for four-dimensional SU(3) lattice gauge theories](https://arxiv.org/abs/2604.12416) (2026)
     * [Scalable Generative Sampling and Multilevel Estimation for Lattice Field Theories Near Criticality](https://arxiv.org/abs/2604.10209) (2026)
     * [Neural network interpolators for Wilson loops](https://arxiv.org/abs/2604.07226) (2026)
     * [Normalizing-flow-based density of states for (1+1)D U(1) lattice gauge theory with a $\theta$-term](https://arxiv.org/abs/2603.12501) (2026)
@@ -2850,6 +2854,7 @@ const expandElements = shouldExpand => {
 
 ??? example "Foundation Models, LLMs, Agents."
 
+    * [Cross-Domain Transfer with Particle Physics Foundation Models: From Jets to Neutrino Interactions](https://arxiv.org/abs/2604.12364) (2026)
     * [Towards foundation-style models for energy-frontier heterogeneous neutrino detectors via self-supervised pre-training](https://arxiv.org/abs/2604.07037) (2026)
     * [Learning to Unscramble Feynman Loop Integrals with SAILIR](https://arxiv.org/abs/2604.05034) (2026)
     * [Retrieval-Augmented Question Answering over Scientific Literature for the Electron-Ion Collider](https://arxiv.org/abs/2604.02259) (2026)
@@ -2936,6 +2941,7 @@ const expandElements = shouldExpand => {
     ###  Parameter estimation
     </div>
 
+    * [Proton Structure from Neural Simulation-Based Inference at the LHC](https://arxiv.org/abs/2604.13157) (2026)
     * [Deep learning topological inference-guided $T_{cc}^{+}$ pole parameter extraction](https://arxiv.org/abs/2603.17763) (2026)
     * [A Simulation-Based Inference Evaluation of Tension Between MicroBooNE and MiniBooNE Results in a 3+1 Sterile Neutrino Global Fit](https://arxiv.org/abs/2603.15322) (2026)
     * [First Estimation of Model Parameters for Neutrino-Induced Nucleon Knockout Using Simulation-Based Inference](https://arxiv.org/abs/2603.09778) (2026)
@@ -3464,6 +3470,7 @@ const expandElements = shouldExpand => {
     ###  Searches and measurements where ML reconstruction is a core component
     </div>
 
+    * [Enhancing Event Reconstruction in Hyper-Kamiokande with Machine Learning: A ResNet Implementation](https://arxiv.org/abs/2604.13503) (2026)
     * [Search for long-lived charginos and $τ$-sleptons using final states with a disappearing track in $pp$ collisions at $\sqrt{s}](https://arxiv.org/abs/2603.08315) (2026)
     * [Modern jet flavour tagging in hadronic Z decays with archived ALEPH data](https://arxiv.org/abs/2603.06524) (2026)
     * [Search for heavy scalar resonances decaying to Lorentz-boosted Higgs and Higgs-like bosons in the $\mathrm{b\bar{b}}$4q final state at $\sqrt{s}$](https://arxiv.org/abs/2602.00273) (2026)

diff --git a/docs/recent.md b/docs/recent.md
@@ -10,6 +10,12 @@ search:
 This is an automatically compiled list of papers which have been added to the living review that were made public within the previous 4 months at the time of updating. This is not an exhaustive list of released papers, and is only able to find those which have both year and month data provided in the bib reference.
 
 ## April 2026
+* [Proton Structure from Neural Simulation-Based Inference at the LHC](https://arxiv.org/abs/2604.13157) (2026)
+* [AI-assisted modeling and Bayesian inference of unpolarized quark transverse momentum distributions from Drell-Yan data](https://arxiv.org/abs/2604.14133) (2026)
+* [Enhancing Event Reconstruction in Hyper-Kamiokande with Machine Learning: A ResNet Implementation](https://arxiv.org/abs/2604.13503) (2026)
+* [Cross-Domain Transfer with Particle Physics Foundation Models: From Jets to Neutrino Interactions](https://arxiv.org/abs/2604.12364) (2026)
+* [Machine learning for four-dimensional SU(3) lattice gauge theories](https://arxiv.org/abs/2604.12416) (2026)
+* [Radiatively Corrected Hybrid Inflation: Parameter Scans and Machine Learning with ACT and Future CMB Experiments](https://arxiv.org/abs/2604.11068) (2026)
 * [Machine Learning Study on Single Production of a Singlet Vector-like Lepton at the Large Hadron Collider](https://arxiv.org/abs/2604.11232) (2026)
 * [Particle transformers for identifying Lorentz-boosted Higgs bosons decaying to a pair of W bosons](https://arxiv.org/abs/2604.09809) (2026)
 * [Filtering hits for speeding up online track reconstruction at hadron colliders](https://arxiv.org/abs/2604.11648) (2026)
